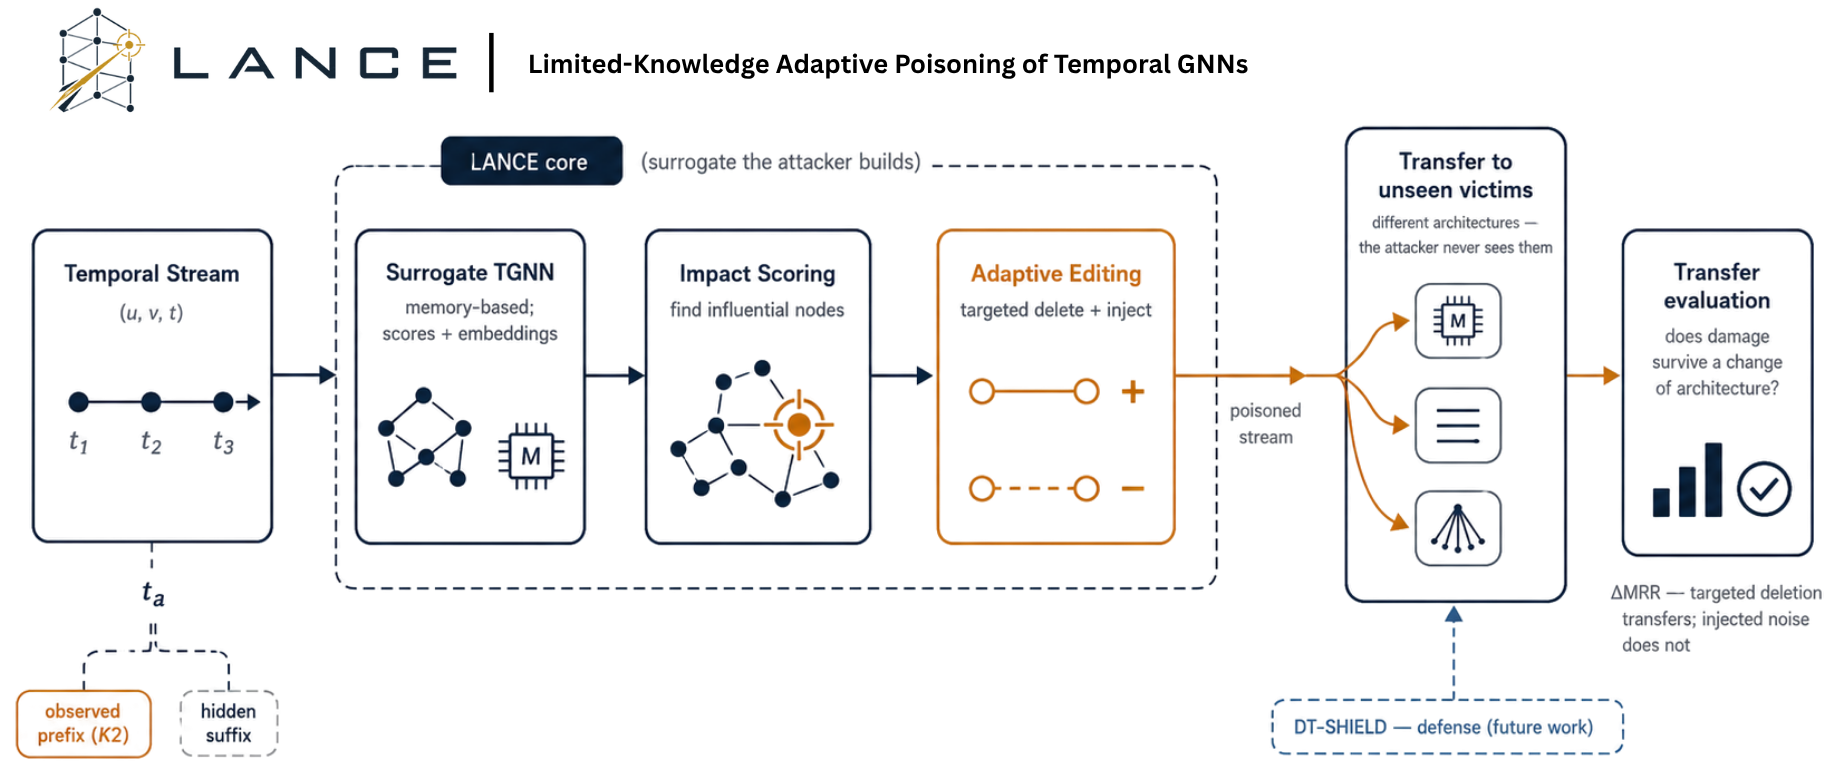
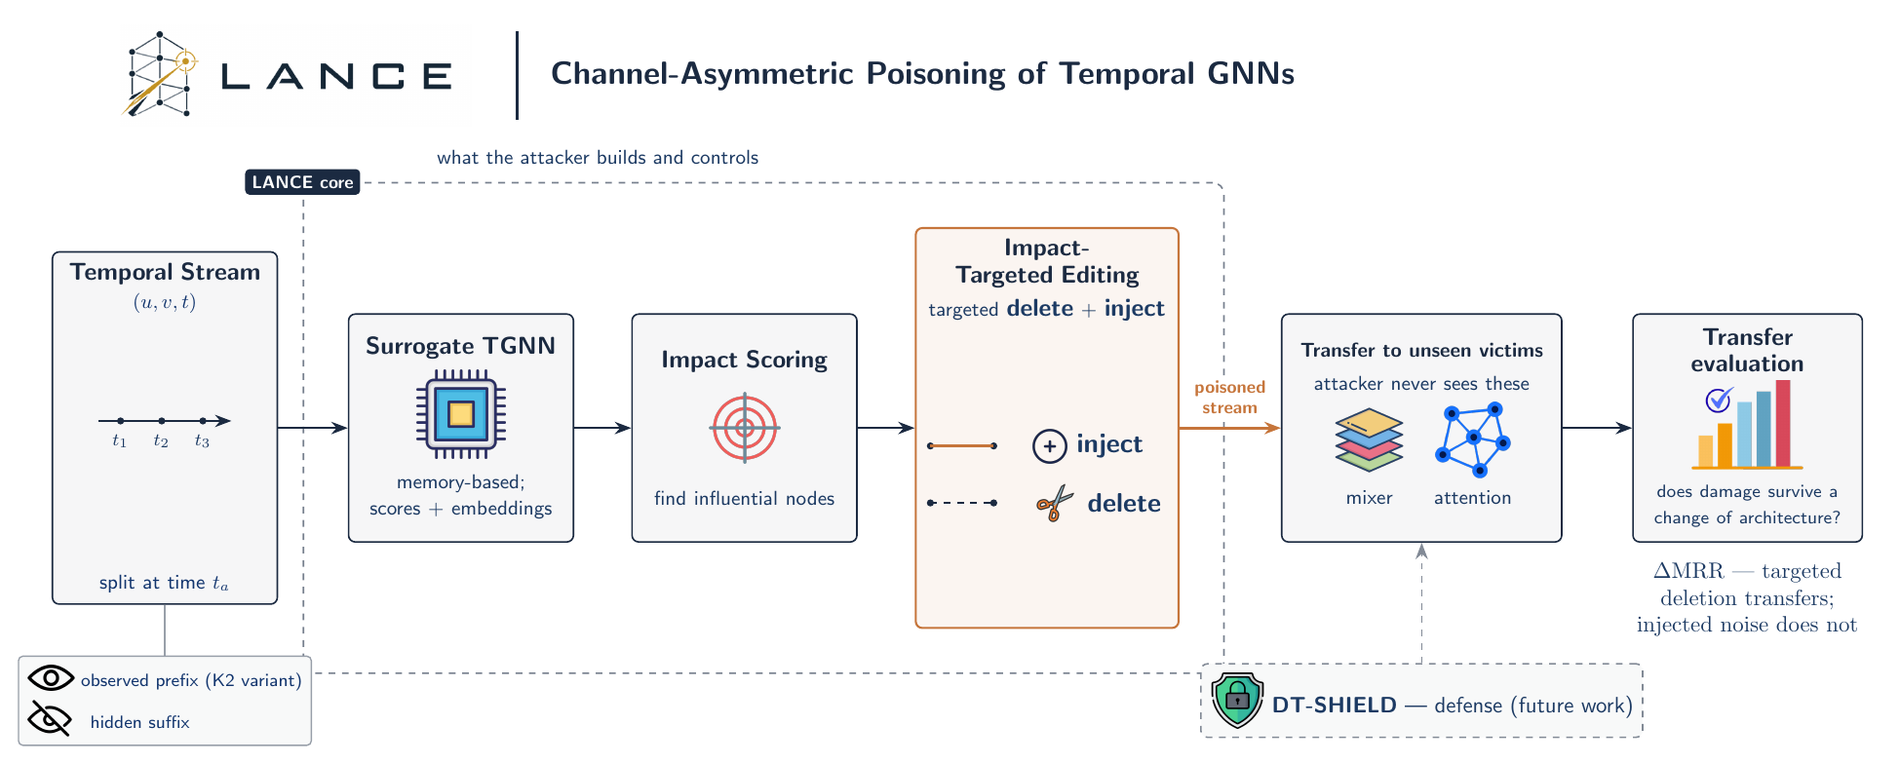
Update the architecture figure to the corrected diagram

diff --git a/README.md b/README.md
@@ -63,15 +63,16 @@ other.
 ## How it works
 
 <p align="center">
-  <img src="assets/lance-architecture.png" alt="LANCE method: a limited-knowledge surrogate guides targeted edits whose damage transfers to unseen victim architectures" width="100%">
+  <img src="assets/lance-architecture.png" alt="LANCE method: a surrogate guides impact-targeted edits whose damage transfers to unseen victim architectures" width="100%">
 </p>
 
-The attack trains a memory-based surrogate on the observable prefix (K2), scores
-node impact, and spends a small budget on **targeted deletions and injections**. The
-poisoned stream is then evaluated on **victim architectures the attacker never
-sees** — and the main result is that this targeted, deletion-driven poisoning
-**transfers** to those unseen models, where injected noise does not. DT-SHIELD (a
-deletion-aware defense) is a future extension.
+The attack trains a memory-based surrogate, scores node impact, and spends its budget
+on **impact-targeted deletions and injections**. The poisoned stream is then evaluated
+on **victim architectures the attacker never sees**. The main result is that the
+*deletion* channel transfers to those unseen models while injected noise does not —
+and that which channel threatens a model tracks its architecture rather than what the
+attacker knows. K2 (observable-prefix only) is an implemented variant; the reported
+gates use K1. DT-SHIELD, a deletion-aware defense, is a future extension.
 
 ## Repository layout
 
